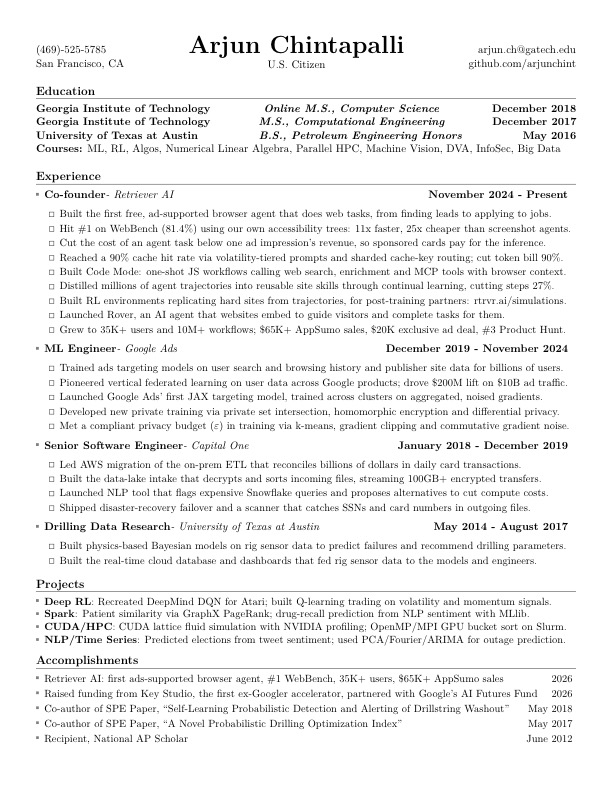
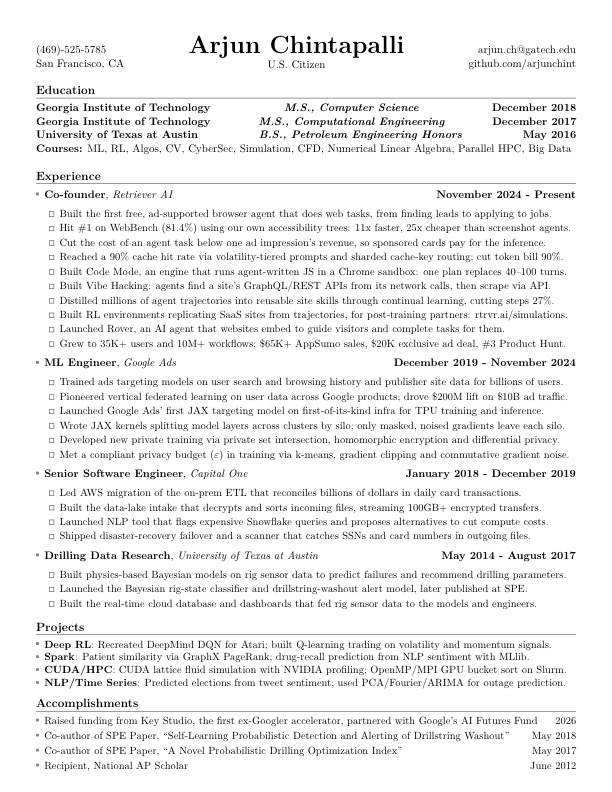
Add Vibe Hacking, JAX/TPU detail and SPE line; align dates
Retriever AI: link the company to rtrvr.ai, rework Code Mode around
the Chrome sandbox engine, add Vibe Hacking, and describe the RL
environments as SaaS sites built from trajectories.

Google Ads: split the JAX line into TPU training/inference infra and
the cross-cluster kernels that only pass masked, noised gradients.

Drilling: add the Bayesian rig-state and washout model published at
SPE. Courses now list CV, CyberSec, simulation and CFD; the duplicate
Retriever accomplishment is removed.

Layout: "Title, Company" job headers, job dates flush with the right
margin, and no trailing spaces in bullets so year columns line up.

Changed region(s): [[0.0621, 0.0909, 0.9624, 0.9697]]

diff --git a/Arjun_Chintapalli_Resume_2026.tex b/Arjun_Chintapalli_Resume_2026.tex
@@ -55,14 +55,13 @@
     \textbf{#1}{: #2}
   }
 }
-\newcommand{\resumebullet}[1]{
-  \item\fontsize{10.5pt}{12pt}\selectfont{{#1}
-  }
+\newcommand{\resumebullet}[1]{%
+  \item\fontsize{10.5pt}{12pt}\selectfont #1\unskip%
 }
 \newcommand{\resumeSubMain}[3]{
   \vspace{-1pt}\item
-    \begin{tabular*}{0.97\textwidth}[t]{l l @{\extracolsep{\fill}} r}
-      \textbf{#1} & \textit{{#2}} & \hfill{\textbf{#3}} \\
+    \begin{tabular*}{\linewidth}[t]{l @{\extracolsep{\fill}} r}
+      \textbf{#1}, \textit{#2} & \textbf{#3} \\
     \end{tabular*}\vspace{3pt}
 }
 \newcommand{\resumeSubItem}[2]{\resumeItem{#1}{#2}\vspace{-2pt}}
@@ -99,41 +98,43 @@
 
 %-----------EDUCATION-----------------
 \section{Education}
-{\bf Georgia Institute of Technology} \hfill{\bf \em Online M.S., Computer Science} \hfill {\bf December 2018} \\
+{\bf Georgia Institute of Technology} \hfill{\bf \em M.S., Computer Science} \hfill {\bf December 2018} \\
 {\bf Georgia Institute of Technology} \hfill{\bf \em M.S., Computational Engineering} \hfill {\bf December 2017} \\
 {\bf University of Texas at Austin} \hfill{\bf \em B.S., Petroleum Engineering Honors} \hfill {\bf May 2016} \\
-\textbf{Courses:} ML, RL, Algos, Numerical Linear Algebra, Parallel HPC, Machine Vision, DVA, InfoSec, Big Data
+\textbf{Courses:} ML, RL, Algos, CV, CyberSec, Simulation, CFD, Numerical Linear Algebra, Parallel HPC, Big Data
 \par\vspace{8pt}
 
 %-----------EXPERIENCE-----------------
 \section{Experience}
   \resumeSubHeadingListStart
     \resumeSubMain
-      {Co-founder}{- Retriever AI}{November 2024 - Present}
+      {Co-founder}{\href{https://www.rtrvr.ai}{Retriever AI}}{November 2024 - Present}
       \resumeItemListStart
         \resumebullet{Built the first free, ad-supported browser agent that does web tasks, from finding leads to applying to jobs.}
         \resumebullet{Hit \#1 on WebBench (81.4\%) using our own accessibility trees: 11x faster, 25x cheaper than screenshot agents.}
         \resumebullet{Cut the cost of an agent task below one ad impression's revenue, so sponsored cards pay for the inference.}
         \resumebullet{Reached a 90\% cache hit rate via volatility-tiered prompts and sharded cache-key routing; cut token bill 90\%.}
-        \resumebullet{Built Code Mode: one-shot JS workflows calling web search, enrichment and MCP tools with browser context.}
+        \resumebullet{Built Code Mode, an engine that runs agent-written JS in a Chrome sandbox: one plan replaces 40--100 turns.}
+        \resumebullet{Built Vibe Hacking: agents find a site's GraphQL/REST APIs from its network calls, then scrape via API.}
         \resumebullet{Distilled millions of agent trajectories into reusable site skills through continual learning, cutting steps 27\%.}
-        \resumebullet{Built RL environments replicating hard sites from trajectories, for post-training partners: \href{https://www.rtrvr.ai/simulations}{rtrvr.ai/simulations}.}
+        \resumebullet{Built RL environments replicating SaaS sites from trajectories, for post-training partners: \href{https://www.rtrvr.ai/simulations}{rtrvr.ai/simulations}.}
         \resumebullet{Launched \href{https://www.rtrvr.ai/rover}{Rover}, an AI agent that websites embed to guide visitors and complete tasks for them.}
         \resumebullet{Grew to 35K+ users and 10M+ workflows; \$65K+ AppSumo sales, \$20K exclusive ad deal, \#3 Product Hunt.}
       \resumeItemListEnd
 
     \resumeSubMain
-      {ML Engineer}{- Google Ads}{December 2019 - November 2024}
+      {ML Engineer}{Google Ads}{December 2019 - November 2024}
       \resumeItemListStart
         \resumebullet{Trained ads targeting models on user search and browsing history and publisher site data for billions of users.}
         \resumebullet{Pioneered vertical federated learning on user data across Google products; drove \$200M lift on \$10B ad traffic.}
-        \resumebullet{Launched Google Ads' first JAX targeting model, trained across clusters on aggregated, noised gradients.}
+        \resumebullet{Launched Google Ads' first JAX targeting model on first-of-its-kind infra for TPU training and inference.}
+        \resumebullet{Wrote JAX kernels splitting model layers across clusters by silo; only masked, noised gradients leave each silo.}
         \resumebullet{Developed new private training via private set intersection, homomorphic encryption and differential privacy.}
         \resumebullet{Met a compliant privacy budget ($\varepsilon$) in training via k-means, gradient clipping and commutative gradient noise.}
       \resumeItemListEnd
 
     \resumeSubMain
-      {Senior Software Engineer}{- Capital One}{January 2018 - December 2019}
+      {Senior Software Engineer}{Capital One}{January 2018 - December 2019}
       \resumeItemListStart
         \resumebullet{Led AWS migration of the on-prem ETL that reconciles billions of dollars in daily card transactions.}
         \resumebullet{Built the data-lake intake that decrypts and sorts incoming files, streaming 100GB+ encrypted transfers.}
@@ -142,9 +143,10 @@
       \resumeItemListEnd
 
     \resumeSubMain
-      {Drilling Data Research}{- University of Texas at Austin}{May 2014 - August 2017}
+      {Drilling Data Research}{University of Texas at Austin}{May 2014 - August 2017}
       \resumeItemListStart
         \resumebullet{Built physics-based Bayesian models on rig sensor data to predict failures and recommend drilling parameters.}
+        \resumebullet{Launched the Bayesian rig-state classifier and drillstring-washout alert model, later published at SPE.}
         \resumebullet{Built the real-time cloud database and dashboards that fed rig sensor data to the models and engineers.}
       \resumeItemListEnd
   \resumeSubHeadingListEnd
@@ -165,7 +167,6 @@
 
 \section{Accomplishments}
   \resumeSubHeadingListStart
-    \resumebullet{Retriever AI: first ads-supported browser agent, \#1 WebBench, 35K+ users, \$65K+ AppSumo sales \hfill 2026}
     \resumebullet{Raised funding from Key Studio, the first ex-Googler accelerator, partnered with Google's AI Futures Fund \hfill 2026}
     \resumebullet{Co-author of SPE Paper, ``Self-Learning Probabilistic Detection and Alerting of Drillstring Washout'' \hfill May 2018}
     \resumebullet{Co-author of SPE Paper, ``A Novel Probabilistic Drilling Optimization Index'' \hfill May 2017}
